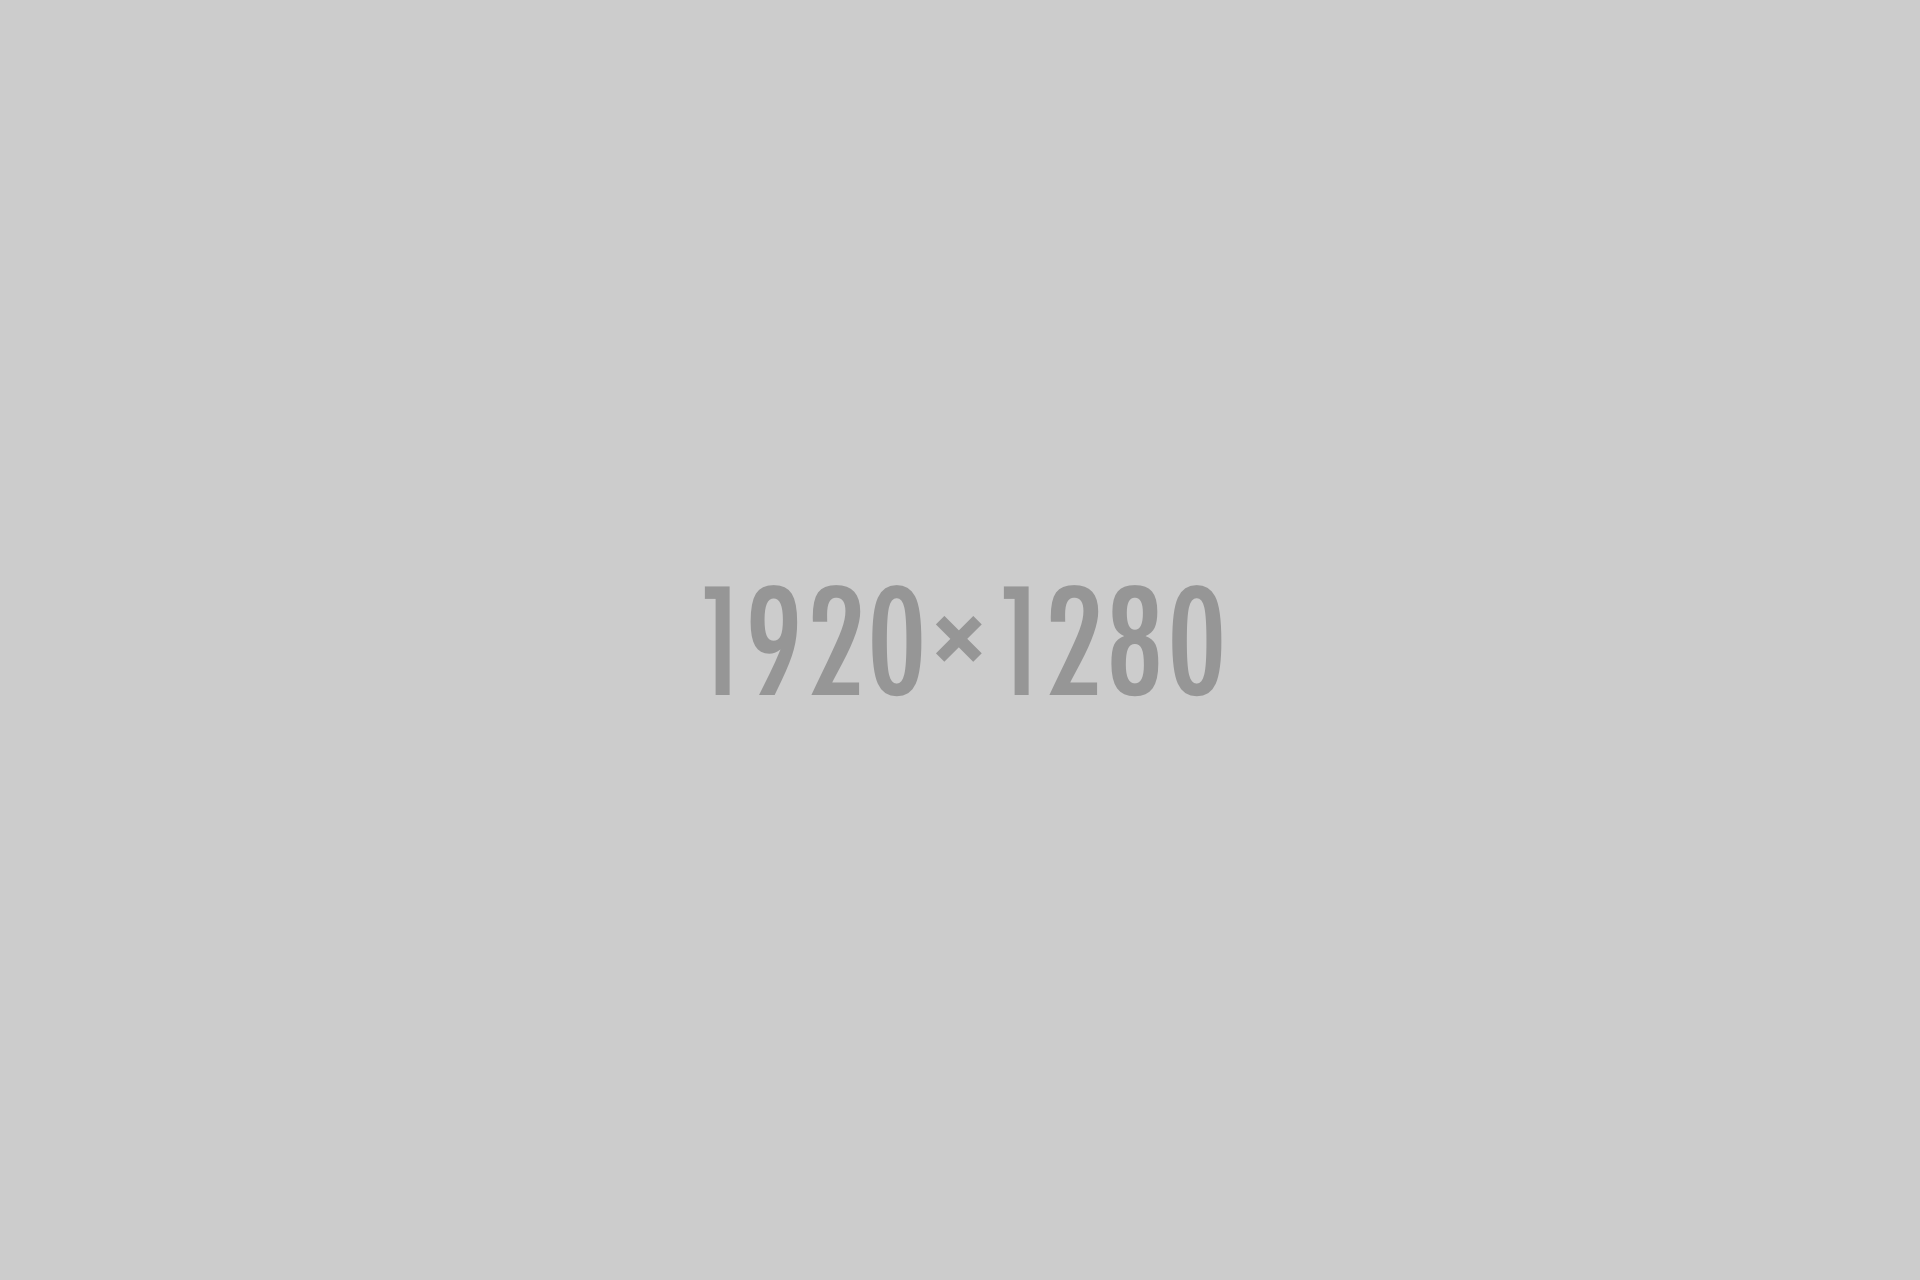
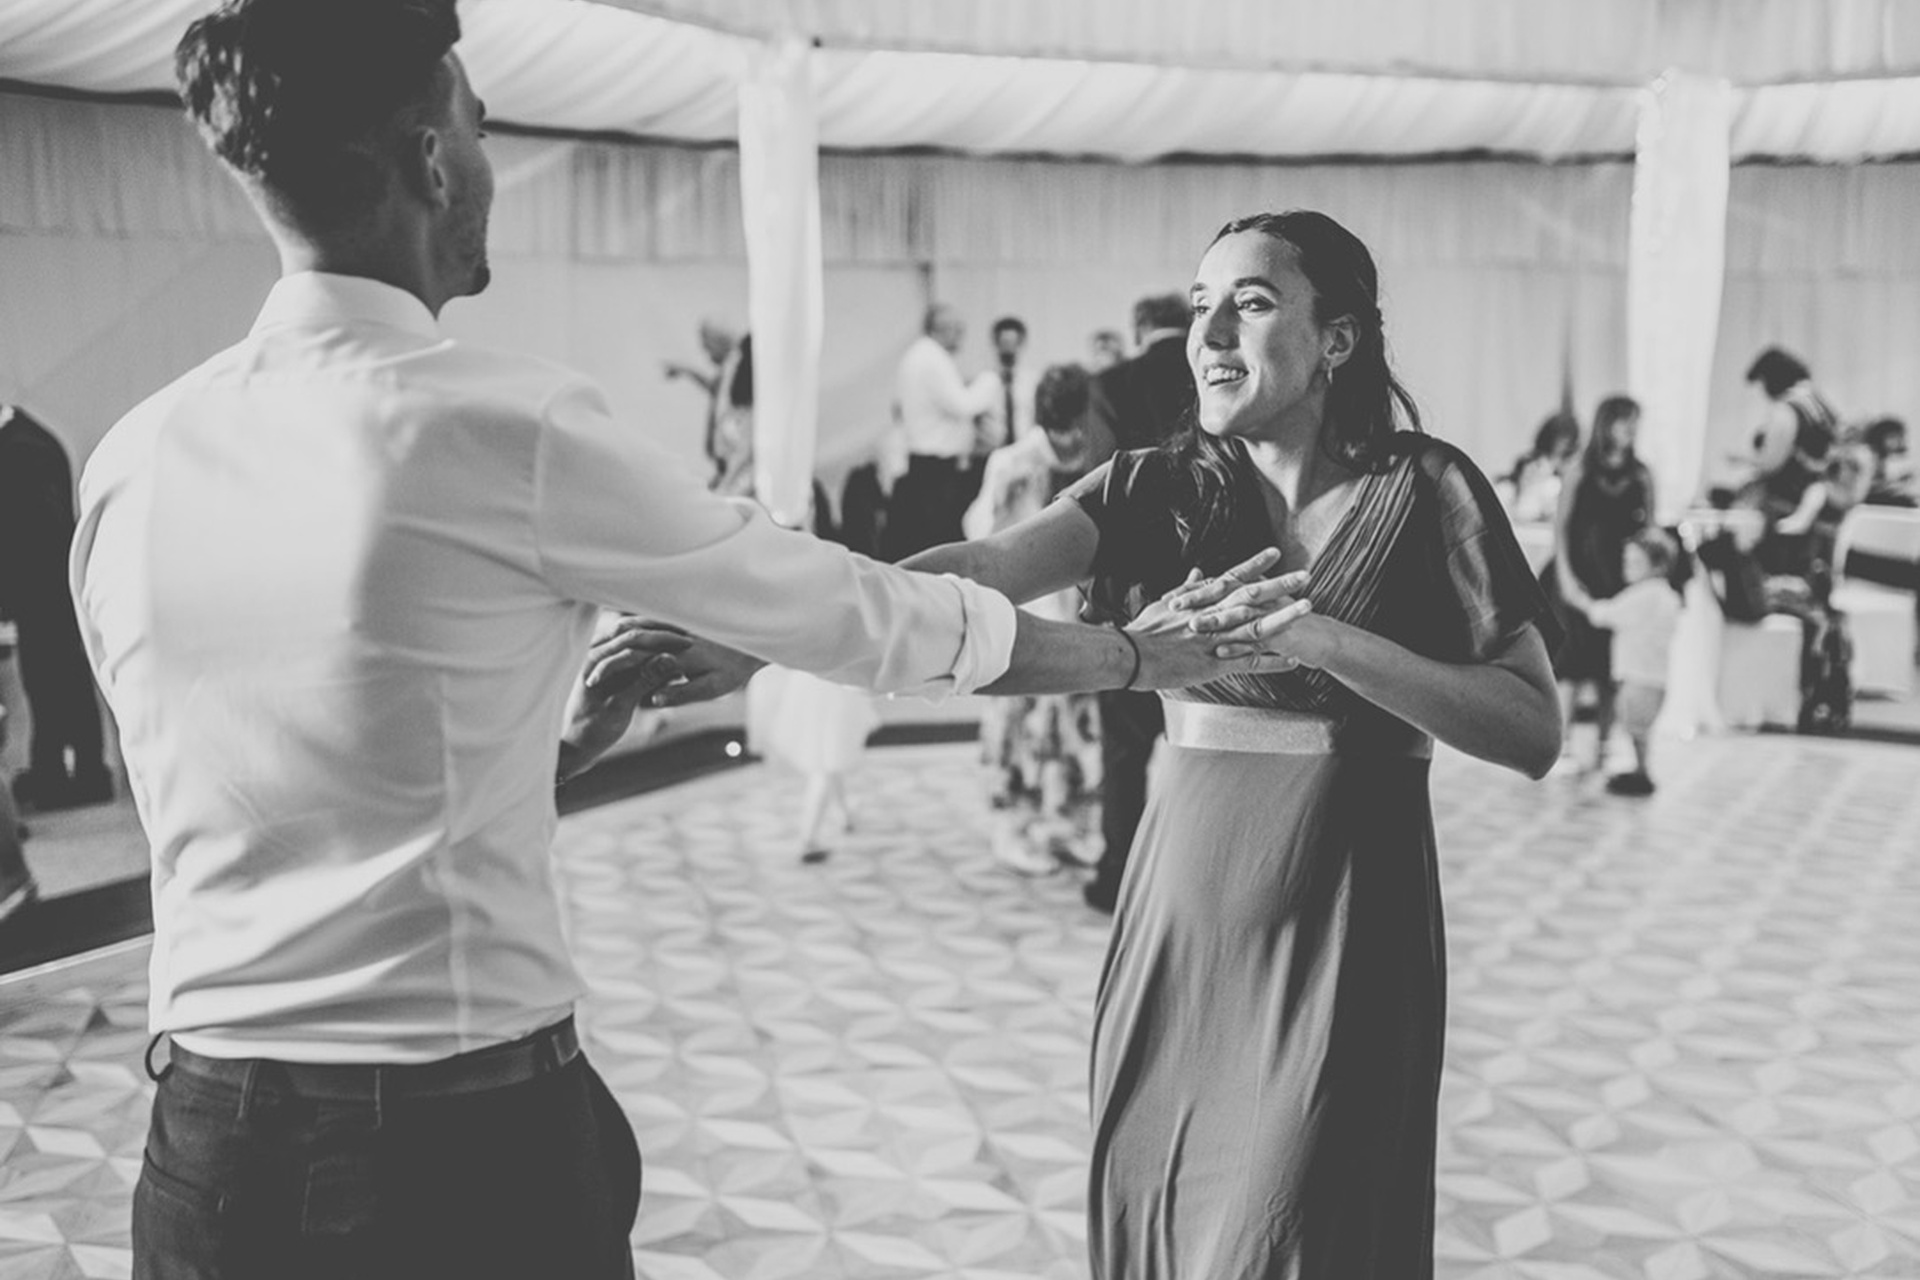
Editing template p5.

diff --git a/index.html b/index.html
@@ -29,6 +29,8 @@
         <link rel="stylesheet" type="text/css" href="css/vendor/motion.min.css">
 
         <link rel="stylesheet" type="text/css" href="css/main.css">
+
+        <link rel="stylesheet" type="text/css" href="css/custom.css">
     </head>
 
     <body data-bs-spy="scroll" data-bs-target="#navbar" data-bs-root-margin="0px 0px -40%" data-bs-smooth-scroll="true">
@@ -39,7 +41,7 @@
 
             <nav id="navbar" class="navbar navbar-expand-md">
                 <div class="container">
-                    <a class="navbar-brand" href="index.html">Belle</a>
+                    <a class="navbar-brand" href="index.html">Zulejka & Peti</a>
 
                     <button class="navbar-toggler" type="button" data-bs-toggle="offcanvas" data-bs-target="#offcanvasNavbar" aria-controls="offcanvasNavbar">
                         <i class="fa-solid fa-bars"></i>
@@ -47,7 +49,7 @@
 
                     <div class="offcanvas offcanvas-end" tabindex="-1" id="offcanvasNavbar" aria-labelledby="offcanvasNavbarLabel">
                         <div class="offcanvas-header">
-                            <h3 class="offcanvas-title" id="offcanvasNavbarLabel">Belle</h3>
+                            <h3 class="offcanvas-title" id="offcanvasNavbarLabel">Zulejka & Peti</h3>
 
                             <button type="button" class="btn-close" data-bs-dismiss="offcanvas" aria-label="Close"></button>
                         </div>
@@ -200,16 +202,8 @@
                     <div class="row">
                         <div class="heading col-12">
                             <h2>
-                                A nagy nap
-
-                                <br>
-
-                                2027 . August . 14
-                            </h2>
-
-                            <p>
-                                Nagy örömmel és szeretettel várunk Benneteket esküvőnkre, hogy együtt ünnepelhessük ezt a számunkra különleges napot!
-                            </p>
+                                Mi amúgy már eléggé várjuk...
+                            
                         </div>
 
                         <div class="col-12">
@@ -263,13 +257,12 @@
                 <div class="container">
                     <div class="row">
                         <div class="col-12 text-center heading">
-                            <span>A NAGY NAP</span>
 
-                            <h2>Program</h2>
+                            <h2>Úgymond a program...</h2>
 
                             <p>Nagy örömmel és szeretettel várunk Benneteket esküvőnkre, hogy együtt ünnepelhessük ezt a számunkra különleges napot!</p>
 
-                            <p>A templomi szertartást követően szeretnénk Veletek együtt folytatni az ünneplést a lakodalomban és egy vidám, emlékezetes estét eltölteni közösen.</p>
+                            <p>A templomi szertartást követően szeretnénk Veletek együtt folytatni az ünneplést a lakodalomban és egy emlékezetes estét eltölteni közösen.</p>
 
                             <p>Bízunk benne, hogy minél többen velünk tartotok és együtt tehetjük igazán emlékezetessé ezt a napot!</p>
 
@@ -286,19 +279,12 @@
 
                                     <div class="timeline-panel">
                                         <div class="timeline-heading">
-                                            <h3 class="timeline-title">First We Meet</h3>
-
-                                            <span class="date">December 25, 2015</span>
+                                            <h3 class="timeline-title">Templomi szertartás</h3>
+                                            <span class="date ceremony-time">14:00</span>
+                                            <p class="lead ceremony-location">Budvári Evangélikus Templom,<br>Budapest, 1014, Bécsi kapu tér 9.</p>
                                         </div>
 
-                                        <div class="timeline-body">
-                                            <p>
-                                                Lorem ipsum dolor sit amet, consectetur adipisicing elit, sed do eiusmod
-                                            tempor incididunt ut labore et dolore magna aliqua. Ut enim ad minim veniam
-                                            </p>
-                                        </div>
-
-                                        <a href="single-post.html" class="timeline-readmore">Readmore</a>
+                                        <a href="single-post.html" class="timeline-readmore">A szertartásról bővebben</a>
                                     </div>
                                 </li>
 
@@ -345,6 +331,23 @@
                                         </div>
 
                                         <a href="single-post.html" class="timeline-readmore">Readmore</a>
+                                    </div>
+                                </li>
+
+                                <li class="timeline-item animate-box animation">
+                                    <div class="timeline-badge">
+                                        <img src="images/story-1.jpg" alt="">
+                                    </div>
+
+                                    <div class="timeline-panel">
+                                        <div class="timeline-heading">
+                                            <h3 class="timeline-title">Esküvőnk napja</h3>
+                                            <span class="date">2027. augusztus 14.</span>
+                                        </div>
+
+                                        <div class="timeline-body">
+                                            <p>A templomi szertartást követően együtt folytatjuk az ünneplést.</p>
+                                        </div>
                                     </div>
                                 </li>
                             </ul>

diff --git a/gallery.html b/gallery.html
@@ -39,7 +39,7 @@
 
             <nav id="navbar" class="navbar navbar-expand-md">
                 <div class="container">
-                    <a class="navbar-brand" href="index.html">Belle</a>
+                    <a class="navbar-brand" href="index.html">Zulejka & Peti</a>
 
                     <button class="navbar-toggler" type="button" data-bs-toggle="offcanvas" data-bs-target="#offcanvasNavbar" aria-controls="offcanvasNavbar">
                         <i class="fa-solid fa-bars"></i>
@@ -47,7 +47,7 @@
 
                     <div class="offcanvas offcanvas-end" tabindex="-1" id="offcanvasNavbar" aria-labelledby="offcanvasNavbarLabel">
                         <div class="offcanvas-header">
-                            <h3 class="offcanvas-title" id="offcanvasNavbarLabel">Belle</h3>
+                            <h3 class="offcanvas-title" id="offcanvasNavbarLabel">Zulejka & Peti</h3>
 
                             <button type="button" class="btn-close" data-bs-dismiss="offcanvas" aria-label="Close"></button>
                         </div>

diff --git a/blog.html b/blog.html
@@ -148,7 +148,7 @@
                                     Far far away, behind the word mountains, far from the countries Vokalia and Consonantia, there live the blind texts.
                                 </p>
 
-                                <a href="single-post.html" class="blog-item_readmore">Readmore</a>
+                                <a href="single-post.html" class="blog-item_readmore">A szertartásról bővebben</a>
                             </div>
                         </div>
 

diff --git a/css/custom.css b/css/custom.css
@@ -1,0 +1,13 @@
+#program .ceremony-time {
+	font-size: 20px;
+	font-weight: 700;
+}
+
+#program .ceremony-location {
+	font-size: 16px;
+}
+
+#program .timeline::before {
+	height: auto;
+	bottom: 0;
+}
